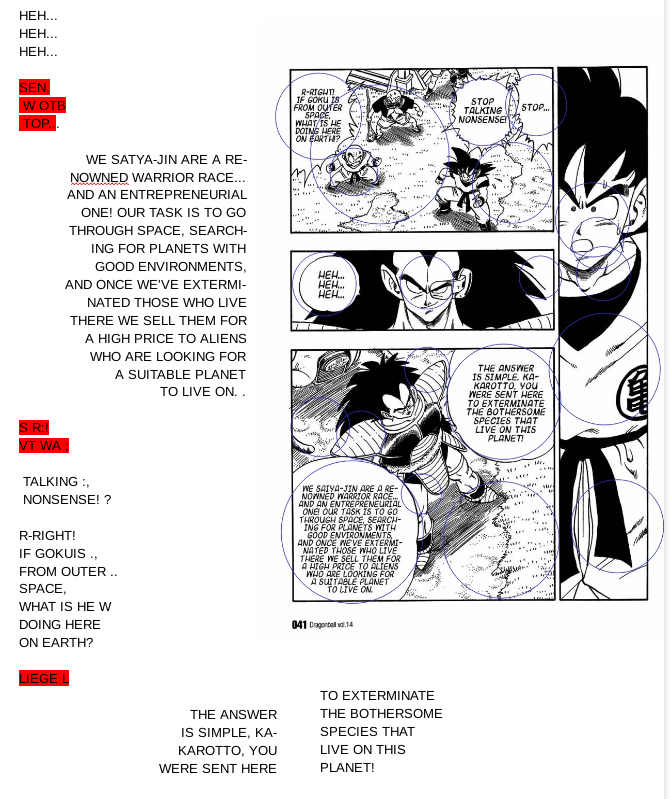
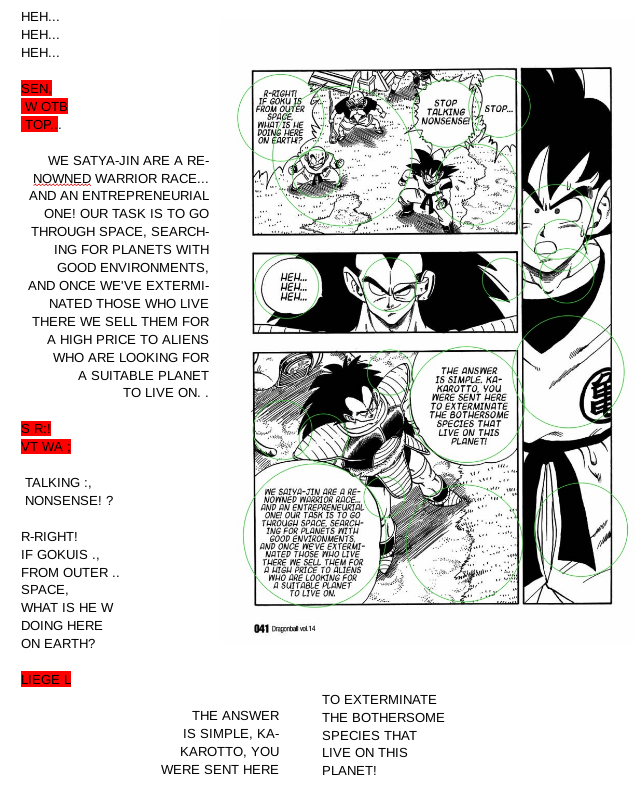
Updated sample image

diff --git a/detect_text.cpp b/detect_text.cpp
@@ -76,7 +76,7 @@ void process_image(cv::Mat img, std::string img_name, tesseract::TessBaseAPI *ap
         }
        
         cv::Mat img_with_keypoints;
-        drawKeypoints( img, keypoints, img_with_keypoints, cv::Scalar(200,50,50), cv::DrawMatchesFlags::DRAW_RICH_KEYPOINTS );
+        drawKeypoints( img, keypoints, img_with_keypoints, cv::Scalar(50,200,50), cv::DrawMatchesFlags::DRAW_RICH_KEYPOINTS );
         std::cout << img_name << ".jpg" << std::endl;
         cv::imwrite(img_name+"keypoints_.jpg", img_with_keypoints ); 
         //cv::waitKey(0);
